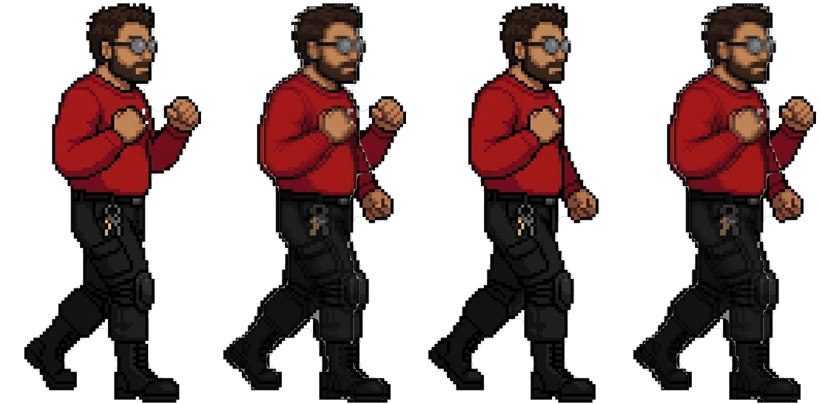
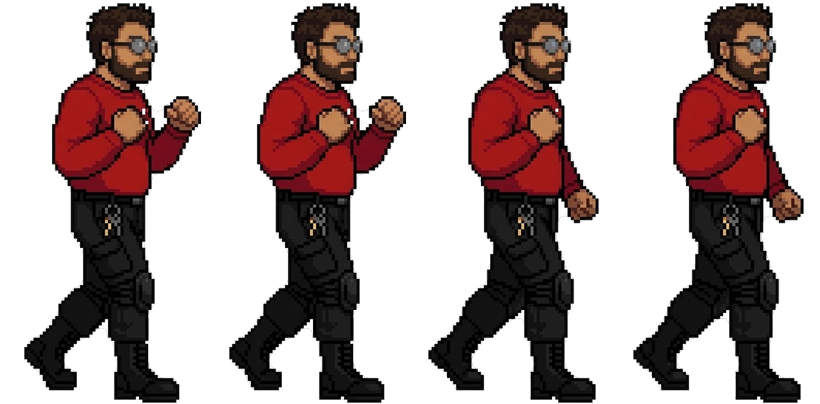
Niente terze gambe e nube dello spruzzino che esce dall'ugello, v=21
- Vlad: posa colpito/caduta senza la figura a tre gambe della tavola 5433; posa di mira
  ritagliata senza lo stinco della figura accanto
- Beppe: frame interpolati (pose sovrapposte con gambe doppie) sostituiti da pose nitide,
  stesso numero di celle; attacchi con la posa di colpo dal 2o frame come Matteo
- spruzzino: la nube parte dall'ugello (posizione misurata sullo sprite), con la punta del getto
  allineata in ogni frame, anche con Vlad rivolto a sinistra e in verticale
- caduta con numero di frame per personaggio

Claude-Session: https://claude.ai/code/session_01P1JT64VZ5V9vmBLWg7Znu1

diff --git a/index.html b/index.html
@@ -156,11 +156,13 @@ function R(x,y,w,h,col){c.fillStyle='#07070c';c.fillRect(x-1,y-1,w+2,h+2);c.fill
 /* sprite dei personaggi: 1 riga per animazione in assets/characters/<nome>/, corpo in piedi normalizzato a 400px, piedi sul bordo inferiore, rivolti a destra.
    n = frame per animazione; pj = proiettile dello speciale (pjn frame); spT = soglie (tick) dei frame dello speciale se diverse dallo standard.
    hit/win sono opzionali: se mancano si usa la posa idle (inclinata quando colpito). */
-const SPRB=400,VER=20,SPRSET={
+const SPRB=400,VER=21,SPRSET={
 BEPPE:{d:'beppe',n:{idle:4,walk:4,punch:5,kick:5,heavy:5,jump:3,block:1,crouch:1,special:5,fall:3,ko:1},pj:'pallet',pjn:1},
 MATTEO:{d:'matteo',n:{idle:1,walk:2,punch:5,kick:5,heavy:5,jump:3,block:1,crouch:1,special:3,hit:1,fall:3,ko:1,win:3},pj:'matteo-cart',pjn:3,spT:[5,11]},
-VLAD:{d:'vlad',n:{idle:1,walk:2,punch:5,kick:5,heavy:5,jump:3,block:1,crouch:1,special:3,hit:1,fall:3,ko:1,win:2},pj:'vlad-spray',pjn:3,pjh:46,pjy:-46,pji:1,spT:[5,11]}};
-/* proiettile a più frame: pjh altezza e pjy bordo superiore (rispetto alla linea del proiettile), pji = il 1o frame è solo l'avvio */
+VLAD:{d:'vlad',n:{idle:1,walk:2,punch:5,kick:5,heavy:5,jump:3,block:1,crouch:1,special:3,hit:1,fall:2,ko:1,win:2},pj:'vlad-spray',pjn:3,pjs:.6,pjo:[33.8,-83.5],pji:1,spT:[5,11]}};
+/* proiettile a più frame: pjh altezza e pjy bordo superiore (rispetto alla linea del proiettile), pji = il 1o frame è solo l'avvio;
+   pjo = [avanti, altezza] del punto di uscita rispetto ai piedi (es. ugello dello spruzzino), pjs = scala rispetto agli sprite:
+   in quel caso il bordo sinistro del frame (la punta del getto) parte esattamente dal punto di uscita */
 for(const ss of Object.values(SPRSET)){ss.im={};for(const a of Object.keys(ss.n)){const im=new Image();im.onload=()=>{ss.im[a]=im};im.src='assets/characters/'+ss.d+'/'+ss.d+'-'+a+'.png?v='+VER}
 ss.pi=new Image();ss.pi.src='assets/characters/'+ss.d+'/'+ss.pj+'.png?v='+VER}
 const BGI=new Image();BGI.src='assets/backgrounds/arena-supermercato.png?v='+VER;
@@ -181,7 +183,7 @@ else if(s=='block')name='block';
 else if(s=='crouch')name='crouch';
 else if(s=='hit'&&SPR.hit)name='hit';
 else if(s=='atk'){name=f.atk=='s'?'special':f.atk=='p'?'punch':f.atk=='k'?'kick':'heavy';if(!SPR[name])name='idle';else if(name=='special'&&ss.spT)fi=ss.spT.filter(v=>t>=v).length;else{const m=MV[f.atk];fi=Math.min(t<m.su-2?0:t<m.su?1:t<m.su+m.ac?2:t<m.su+m.ac+2?3:4,SPRN[name]-1)}}
-else if(s=='ko'){if(t<35&&SPR.fall){name='fall';fi=Math.min(t/12|0,2)}else if(SPR.ko){name='ko';fi=0}}
+else if(s=='ko'){if(t<35&&SPR.fall){name='fall';fi=Math.min(t/12|0,SPRN.fall-1)}else if(SPR.ko){name='ko';fi=0}}
 if(G&&G.ph=='ko'&&G.w===f&&SPR.win&&(s=='idle'||s=='walk')){name='win';fi=Math.min(SPRN.win-1,(150-G.pt)/14|0)}
 if(!SPR[name])name='idle';
 const src=SPR[name],fw=src.width/SPRN[name],fh=src.height,k=SPRK;
@@ -243,7 +245,7 @@ if(f.st=='ko'){f.vx*=.92;f.x+=f.vx;f.vy+=.5;f.y=Math.min(0,f.y+f.vy);if(f.y>=0)f
 const gr=f.y>=0&&f.vy>=0;
 if(f.stun>0){f.stun--;f.vx*=.85;f.st=f.stun>0?'hit':'idle'}
 else if(f.st=='atk'){const m=MV[f.atk],t=f.t;f.ext=t<m.su?t/m.su:t<m.su+m.ac?1:Math.max(0,1-(t-m.su-m.ac)/m.re);f.vx*=.8;
-if(f.atk=='s'){if(t==m.su){PJ.push({x:f.x+f.face*22,vx:f.face*3.6,o:f,a:f.atk,t:0});sfx('sp')}}
+if(f.atk=='s'){if(t==m.su){const po=(SPRSET[f.L.n]||{}).pjo,bs=f.L.big?1.12:1;PJ.push({x:f.x+f.face*(po?po[0]*bs:22),y:po?po[1]*bs:-30,vx:f.face*3.6,o:f,a:f.atk,t:0});sfx('sp')}}
 else if(t>=m.su&&t<m.su+m.ac&&!f.did)hitchk(f,o,m);
 if(t>=m.su+m.ac+m.re){f.st='idle';f.atk=null;f.ext=0}}
 else{f.ext=0;f.blk=gr&&i.b;f.cr=gr&&i.d&&!i.b;if(gr)f.face=o.x>f.x?1:-1;
@@ -358,9 +360,9 @@ c.setTransform(s2,0,0,s2,tx,ty);c.imageSmoothingEnabled=false;c.translate(shx,sh
 if(!G){const f=[...demo];for(const d of f){d.t++;d.st='idle'}draw(f[0],176-88/ZP,FY);draw(f[1],176+88/ZP,FY);c.restore();return}
 const a=G.a,b=G.b;c.fillStyle='rgba(0,0,0,.25)';for(const f of[a,b])c.fillRect(f.x-17+(f.y/-3),FY-2,34+f.y/3,4);
 const order=a.y<b.y?[b,a]:[a,b];for(const f of order)draw(f,f.x,FY+f.y);
-for(const p of PJ){const x=p.x,y=FY-30,d=p.vx>0?1:-1;c.save();c.translate(x,y);c.scale(d,1);c.imageSmoothingEnabled=false;
+for(const p of PJ){const x=p.x,y=FY+(p.y==null?-30:p.y),d=p.vx>0?1:-1;c.save();c.translate(x,y);c.scale(d,1);c.imageSmoothingEnabled=false;
 const ps=SPRSET[p.o.L.n]||SPRSET.BEPPE,PI=ps.pi;
-if(PI.complete&&PI.naturalWidth){if(ps.pjn>1){const n=ps.pjn,fw=PI.width/n,ph=ps.pjh||48,fi=ps.pji?(p.t<5?0:1+((p.t/8|0)%(n-1))):(p.t/6|0)%n,k2=ph/PI.height;c.drawImage(PI,fi*fw,0,fw,PI.height,-fw*k2/2,ps.pjy||-18,fw*k2,ph)}
+if(PI.complete&&PI.naturalWidth){if(ps.pjn>1){const n=ps.pjn,fw=PI.width/n,ph=ps.pjh||48,fi=ps.pji?(p.t<5?0:1+((p.t/8|0)%(n-1))):(p.t/6|0)%n,k2=ph/PI.height;if(ps.pjs){const k3=SPRK*ps.pjs;c.drawImage(PI,fi*fw,0,fw,PI.height,-2*k3,-PI.height*k3/2,fw*k3,PI.height*k3)}else c.drawImage(PI,fi*fw,0,fw,PI.height,-fw*k2/2,ps.pjy||-18,fw*k2,ph)}
 else{c.rotate(p.t*.2);const k2=30/PI.height;c.drawImage(PI,-PI.width*k2/2,-15,PI.width*k2,30)}}
 else{c.fillStyle='rgba(255,210,63,.4)';c.fillRect(-26,-6,24,12);R(-10,-8,20,12,'#9aa3ad');R(-10,-8,20,3,'#d42a2a');R(-8,4,4,4,'#222');R(4,4,4,4,'#222')}
 c.restore()}

diff --git a/tools/build_vlad_sprites.py b/tools/build_vlad_sprites.py
@@ -6,6 +6,8 @@ Tavole: 5422 riferimento (non usata) · 5424 guardia/camminata · 5426 calcio ·
 Mancano pose dedicate per salto e parata: si riusano pose simili (vedi sotto)."""
 import os, sys
 sys.path.insert(0, os.path.dirname(__file__))
+import numpy as np
+from PIL import Image
 from spritebuild import Builder, SPRITE_H
 
 K = SPRITE_H / 786       # altezza in piedi nelle tavole: 786px
@@ -26,16 +28,34 @@ sheet('punch', [idle0, punch1, punch1, punch1, idle0])
 sheet('heavy', [crouch0, crouch0, punch1, punch1, idle0])  # carica accovacciato e scatta col pugno
 sheet('kick', [k[0], k[1], k[1], k[1], k[2]])
 # speciale: estrae lo spruzzino, mira, spruzza. Nella tavola la 2a e la 3a figura si toccano con gli
-# stivali: la 2a si ritaglia a gradini (busto e spruzzino < x828, gamba < x760, stivale < x790).
-aim = fig(5429, 1, keep=lambda yy, xx: xx < ((yy < 560) * 828 + ((yy >= 560) & (yy < 690)) * 760 + (yy >= 690) * 790))
+# stivali: la 2a si ritaglia a gradini (busto e spruzzino < x828, gamba < x760, stivale < x736, punta < x754:
+# oltre c'e' lo stinco/tallone della figura accanto, che faceva da "terza gamba").
+aim = fig(5429, 1, keep=lambda yy, xx: xx < ((yy < 560) * 828 + ((yy >= 560) & (yy < 700)) * 760 + ((yy >= 700) & (yy < 772)) * 736 + (yy >= 772) * 754))
 sheet('special', [fig(5429, 0), aim, aim])
 sheet('jump', [k[0], k[0], idle0])                         # nessuna tavola salto: ginocchio alto, poi guardia
 sheet('block', [guard1])                                   # nessuna tavola parata: guardia frontale
 sheet('crouch', [crouch0])
-f = [fig(5433, i) for i in range(3)]
+# la 1a figura di 5433 ha tre gambe nel disegno originale: si usano solo la 2a (colpito) e la 3a (cade)
+f = [fig(5433, i) for i in (1, 2)]
 sheet('hit', [f[0]])
 sheet('fall', f)
 sheet('ko', [fig(5434, 0, K_KO)])
 sheet('win', [fig(5435, i) for i in range(2)])
 # proiettile: nuvola dello spruzzino (sbuffo iniziale, getto, nube che si allarga)
-sheet('spray', [fig(5430, i) for i in range(3)], top=1, bot=1)
+# allineata a sinistra: la punta del getto e' il bordo sinistro della cella, che il gioco mette sull'ugello
+spray = [fig(5430, i) for i in range(3)]
+for f in spray:  # punto di partenza = altezza media dei pixel nelle prime colonne a sinistra (punta del getto)
+    a = f['px'][..., 3] > 100
+    cols = np.where(a.any(0))[0][:6]
+    f['ay'] = float(np.where(a[:, cols].any(1))[0].mean())
+sheet('spray', spray, top=1, bot=1, left=True)
+
+# posizione dell'ugello (pixel blu piu' a destra nella posa di mira), in unita' del gioco rispetto ai piedi
+im = np.asarray(Image.open('assets/characters/vlad/vlad-special.png')).astype(int)
+cw = im.shape[1] // 3
+c = im[:, cw:2 * cw]
+blue = (c[..., 3] > 128) & (c[..., 2] > 150) & (c[..., 2] > c[..., 0] + 60)
+ys, xs = np.where(blue)
+nx = xs.max(); ny = ys[xs >= nx - 3].min()
+SPRK = 0.55 * 384 / 2 / SPRITE_H
+print('ugello (pjo per index.html): [%.1f, %.1f]' % ((nx - cw / 2) * SPRK, -(c.shape[0] - ny) * SPRK))

diff --git a/tools/spritebuild.py b/tools/spritebuild.py
@@ -10,6 +10,7 @@ from PIL import Image
 from spritekey import key, figures
 
 SPRITE_H = 400
+LEFT_PAD = 2
 
 
 class Builder:
@@ -58,15 +59,26 @@ class Builder:
         ax = float(np.median(np.where(band)[1])) if band.any() else r.shape[1] / 2
         return dict(px=r, ax=ax)
 
-    def sheet(self, anim, frames, top=3, bot=2, fname=None):
+    def sheet(self, anim, frames, top=3, bot=2, fname=None, left=False):
+        """left=True (proiettili): ogni frame appoggiato al bordo sinistro della cella e centrato in
+        verticale, cosi' il punto di partenza (es. la punta del getto) coincide con x=LEFT_PAD.
+        Se un frame ha 'ay' (y del punto di partenza), quel punto finisce esattamente a meta' altezza."""
         H = max(f['px'].shape[0] for f in frames) + top + bot
-        half = int(max(max(f['ax'], f['px'].shape[1] - f['ax']) for f in frames)) + 3
-        cw = 2 * half
+        if left and all('ay' in f for f in frames):
+            H = 2 * int(max(max(f['ay'], f['px'].shape[0] - f['ay']) for f in frames)) + 4
+        if left:
+            cw = max(f['px'].shape[1] for f in frames) + LEFT_PAD + 2
+        else:
+            half = int(max(max(f['ax'], f['px'].shape[1] - f['ax']) for f in frames)) + 3
+            cw = 2 * half
         out = np.zeros((H, cw * len(frames), 4), np.float32)
         for i, f in enumerate(frames):
             h, w = f['px'].shape[:2]
-            x = i * cw + int(round(half - f['ax']))
-            out[H - bot - h:H - bot, x:x + w] = f['px']
+            if left:
+                x, y = i * cw + LEFT_PAD, int(round(H / 2 - f['ay'])) if 'ay' in f else (H - h) // 2
+            else:
+                x, y = i * cw + int(round(half - f['ax'])), H - bot - h
+            out[y:y + h, x:x + w] = f['px']
         path = os.path.join(self.dst, fname or '%s-%s.png' % (self.name, anim))
         Image.fromarray(np.clip(out, 0, 255).astype(np.uint8), 'RGBA').save(path, optimize=True)
         print(anim, len(frames), 'x', (cw, H))
